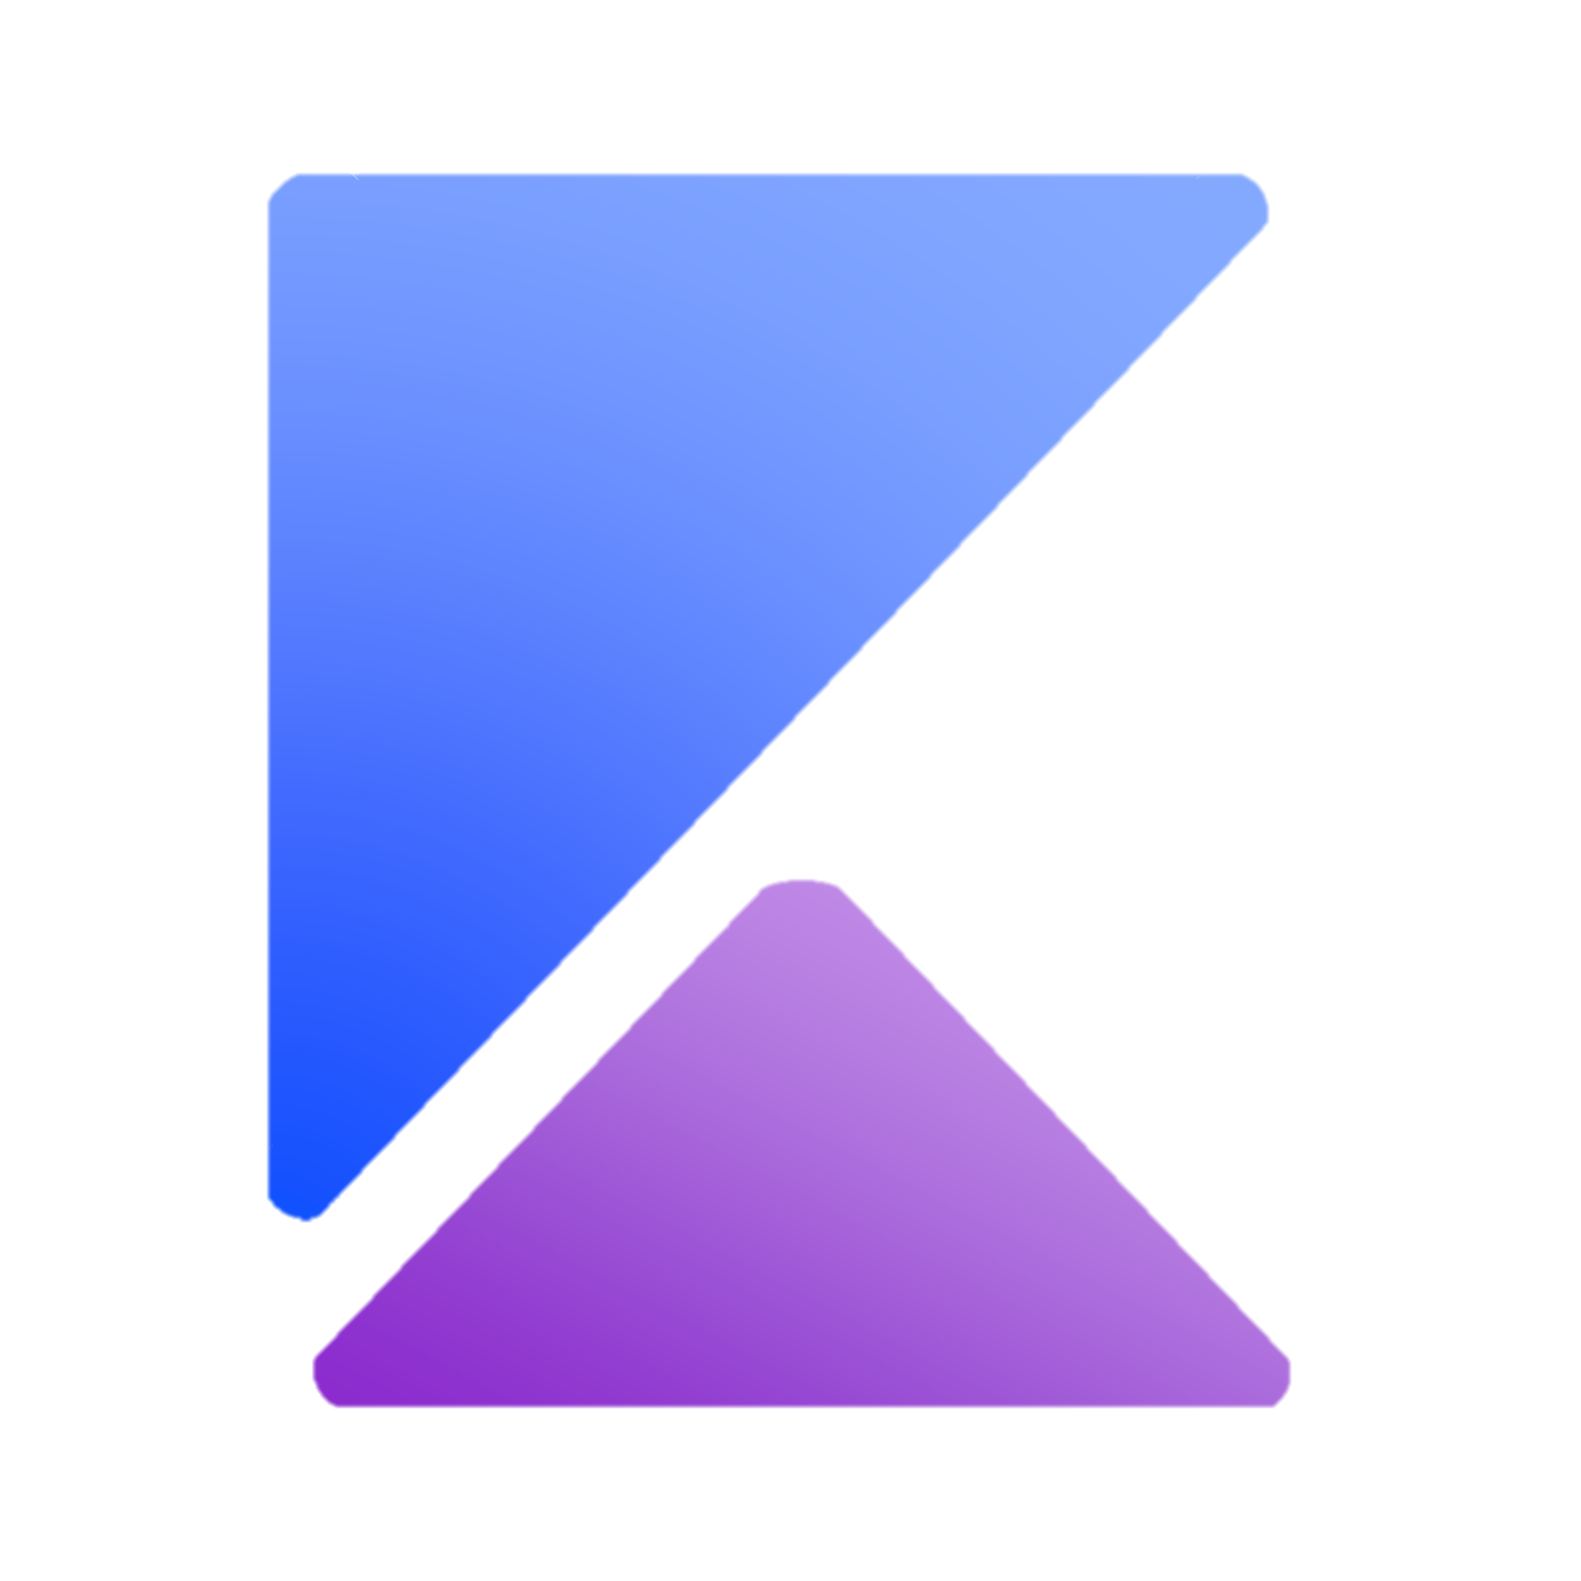
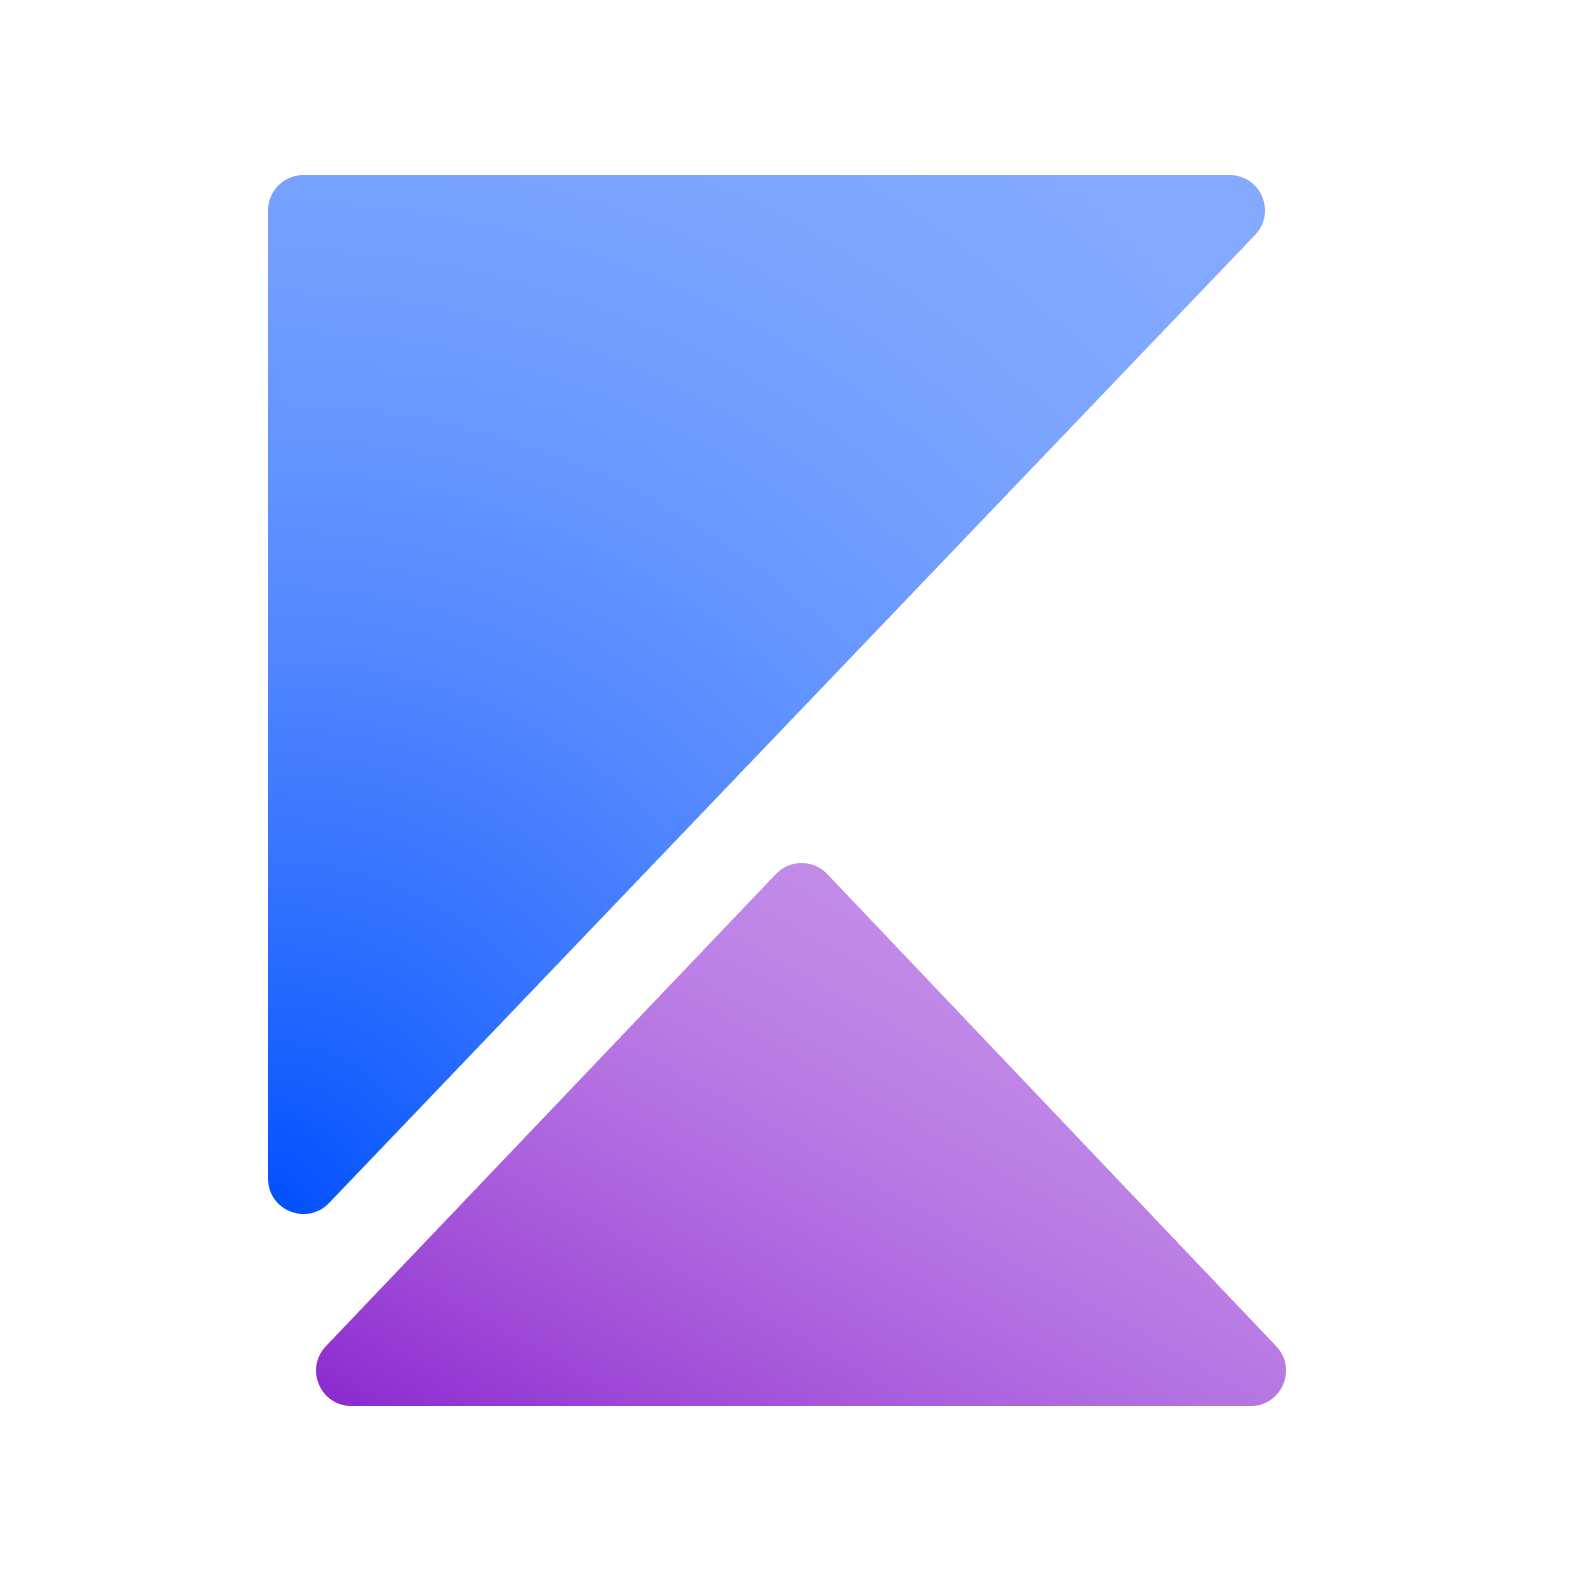
Update Media

diff --git a/README.md b/README.md
@@ -14,12 +14,16 @@ Please don’t modify the logos or use them in any altered way.<br>
 <a href="https://github.com/katorlys/MediaKit/raw/main/primary_color_2.png"><img src="https://cdn.jsdelivr.net/gh/katorlys/MediaKit/primary_color_2.png"></img></a></p>
 
 ## Marks
-**Normal Size**<br>
+**Original SVG**  
+<p align="center"><a href="https://github.com/katorlys/MediaKit/raw/main/marks/mark.svg"><img width=48% src="https://cdn.jsdelivr.net/gh/katorlys/MediaKit/marks/mark.svg"></img></a><br>
+<a href="https://github.com/katorlys/MediaKit/raw/main/marks/mark.svg">Download .svg</a></p>
+
+**Normal Size**  
 |Transparent|White|
 |:---:|:---:|
 |<a href="https://github.com/katorlys/MediaKit/raw/main/marks/mark.png"><img width=48% src="https://cdn.jsdelivr.net/gh/katorlys/MediaKit/marks/mark.png"></img></a>|<a href="https://github.com/katorlys/MediaKit/raw/main/marks/mark_white.png"><img width=48% src="https://cdn.jsdelivr.net/gh/katorlys/MediaKit/marks/mark_white.png"></img></a>|
 
-**Large Size**<br>
+**Large Size**  
 |Transparent|White|
 |:---:|:---:|
 |<a href="https://github.com/katorlys/MediaKit/raw/main/marks/mark_large.png"><img width=48% src="https://cdn.jsdelivr.net/gh/katorlys/MediaKit/marks/mark_large.png"></img></a>|<a href="https://github.com/katorlys/MediaKit/raw/main/marks/mark_large_white.png"><img width=48% src="https://cdn.jsdelivr.net/gh/katorlys/MediaKit/marks/mark_large_white.png"></img></a>|
